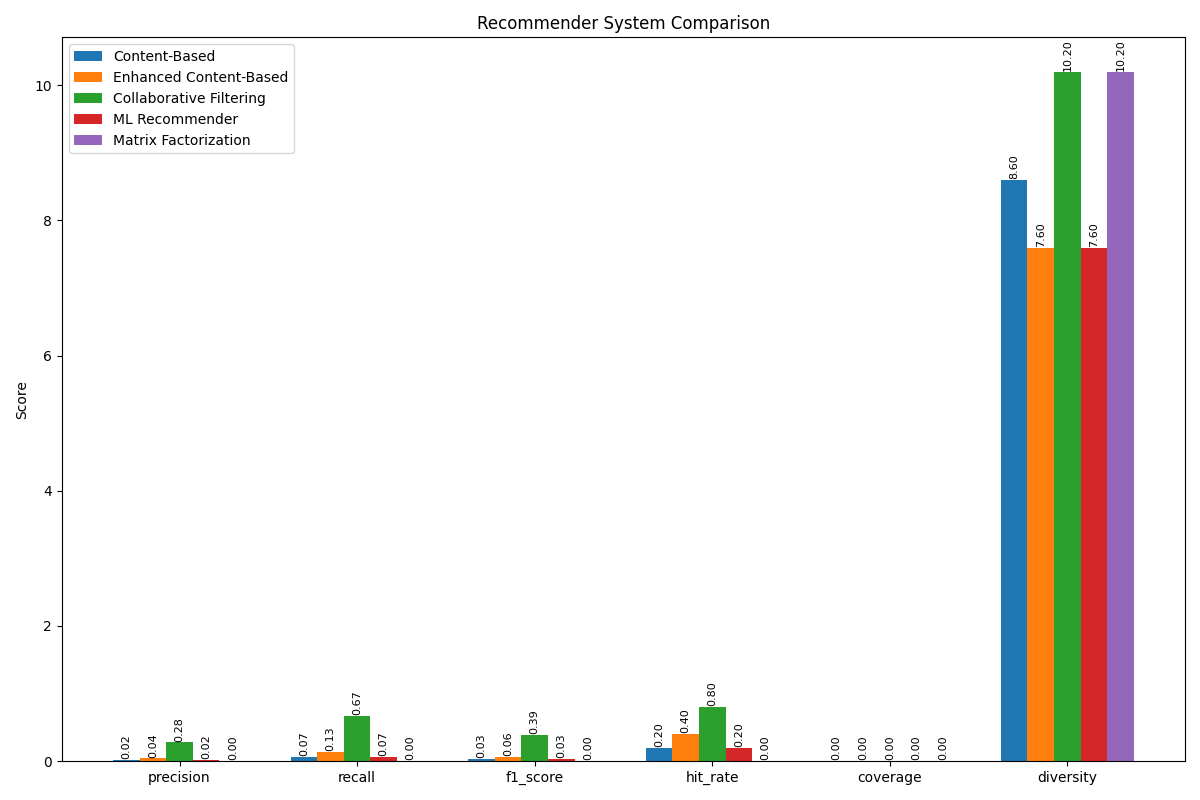
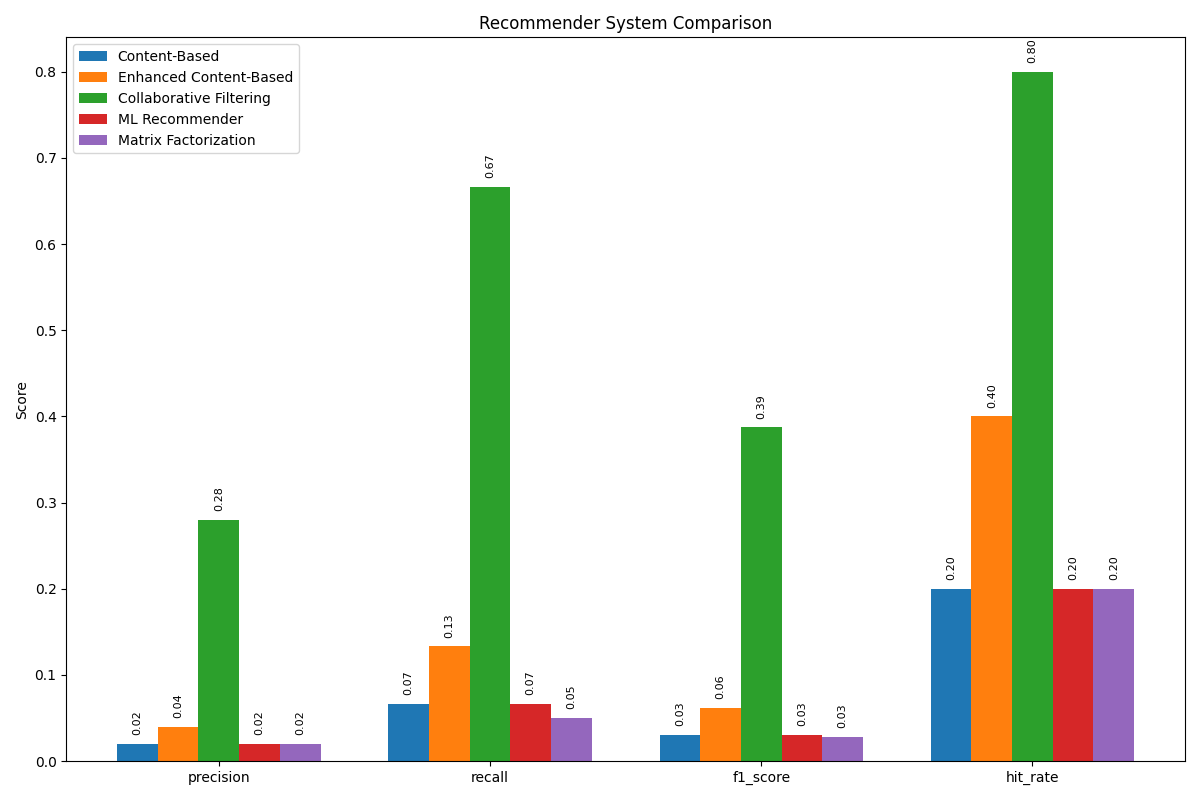
changed up evaluations

diff --git a/evaluation.py b/evaluation.py
@@ -246,7 +246,7 @@ class RecommenderEvaluator:
         
         # Create a table of metrics for all recommenders
         recommender_names = list(results.keys())
-        metrics = ["precision", "recall", "f1_score", "hit_rate", "coverage", "diversity"]
+        metrics = ["precision", "recall", "f1_score", "hit_rate"]
         
         # Create a dataframe for the plot
         data = []
